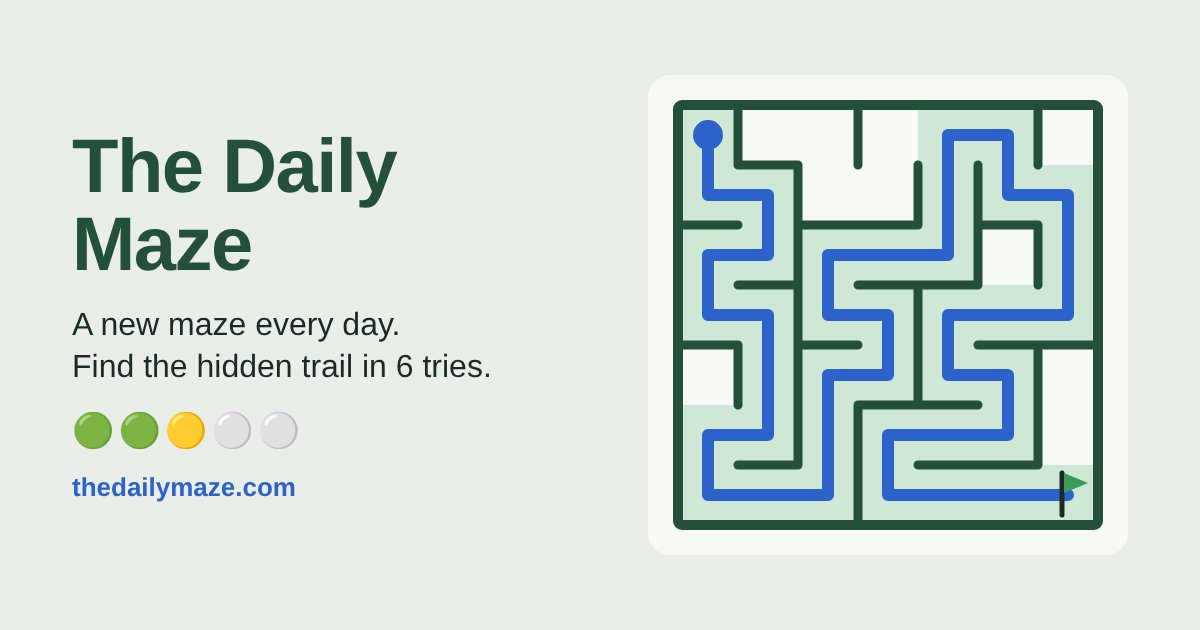
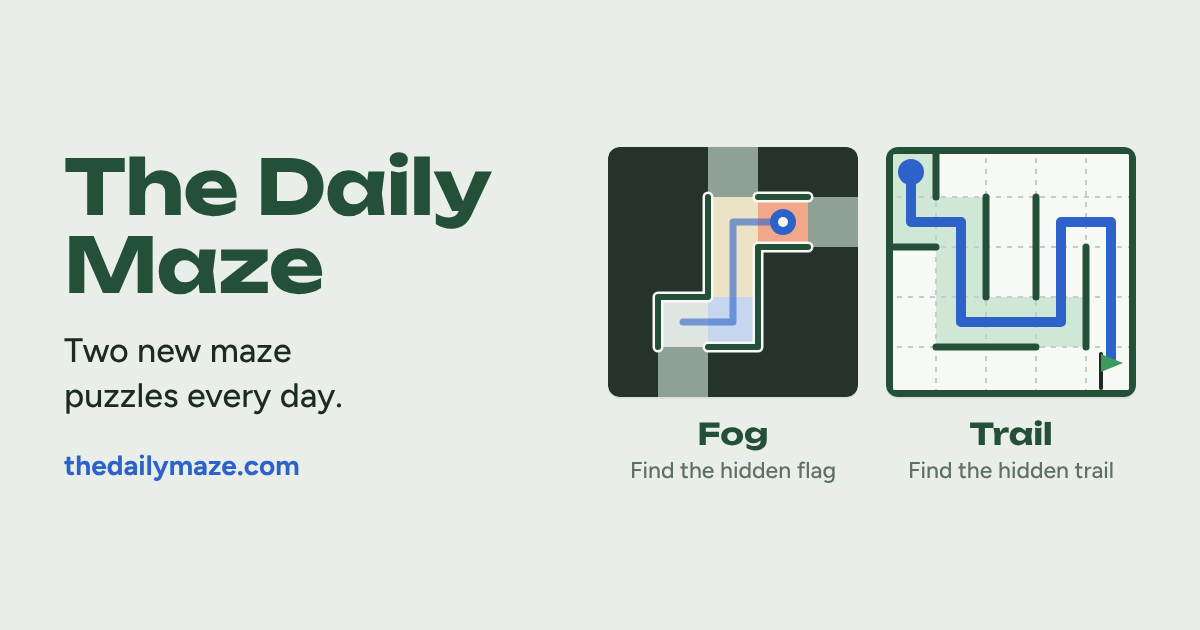
Share image and description show both games, Fog first
Claude-Session: https://claude.ai/code/session_01266cEJHRqS1LfdA8kikWUT

Changed region(s): [[0.4933, 0.1508, 0.9558, 0.8444], [0.0308, 0.2111, 0.4317, 0.7841]]

diff --git a/index.html b/index.html
@@ -4,7 +4,7 @@
 <meta charset="utf-8">
 <meta name="viewport" content="width=device-width,initial-scale=1,viewport-fit=cover">
 <title>The Daily Maze</title>
-<meta name="description" content="A new maze puzzle every day. Find the hidden trail in 6 tries, or find the flag in the fog. Free, no sign-up.">
+<meta name="description" content="Two new maze puzzles every day: find the hidden flag in the fog, and the hidden trail in 6 tries. Free, no sign-up.">
 <link rel="canonical" href="https://www.thedailymaze.com/">
 <meta name="theme-color" content="#24503a">
 <link rel="icon" href="favicon.svg" type="image/svg+xml">
@@ -14,12 +14,12 @@
 <meta property="og:type" content="website">
 <meta property="og:site_name" content="The Daily Maze">
 <meta property="og:title" content="The Daily Maze">
-<meta property="og:description" content="A new maze puzzle every day. Find the hidden trail in 6 tries.">
+<meta property="og:description" content="Two new maze puzzles every day: Fog and Trail.">
 <meta property="og:url" content="https://www.thedailymaze.com/">
-<meta property="og:image" content="https://www.thedailymaze.com/og-image.png">
+<meta property="og:image" content="https://www.thedailymaze.com/og-image.png?v=2">
 <meta property="og:image:width" content="1200">
 <meta property="og:image:height" content="630">
-<meta property="og:image:alt" content="The Daily Maze: a hedge-green maze board with a blue trail leading to a flag">
+<meta property="og:image:alt" content="The Daily Maze: two small boards, Fog (find the hidden flag) and Trail (find the hidden trail)">
 <meta name="twitter:card" content="summary_large_image">
 <style>:root{color-scheme:light;box-sizing:border-box;padding-top:env(safe-area-inset-top,0px);padding-bottom:env(safe-area-inset-bottom,0px)}html{scroll-padding-top:env(safe-area-inset-top,0px)}body{margin:0;padding:0;font:14px -apple-system,BlinkMacSystemFont,sans-serif;background:#fff;color:#000}img{max-width:100%}[hidden]:not([hidden=until-found i]){display:none!important}</style>
 <link rel="preload" href="/fonts/figtree-latin-400-normal.woff2" as="font" type="font/woff2" crossorigin>
